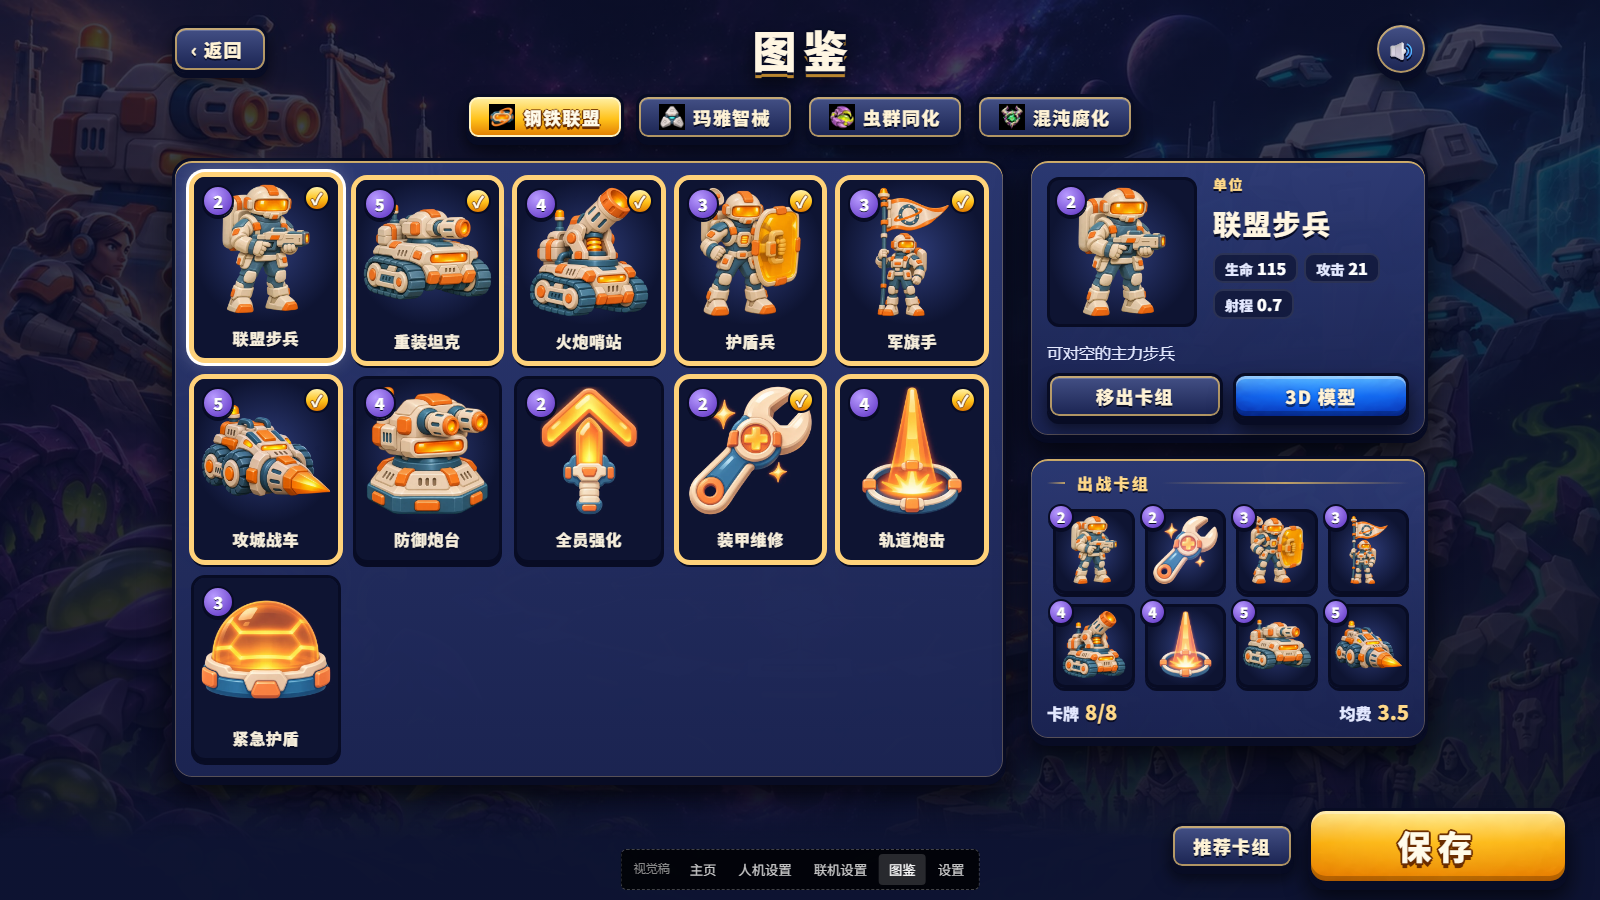
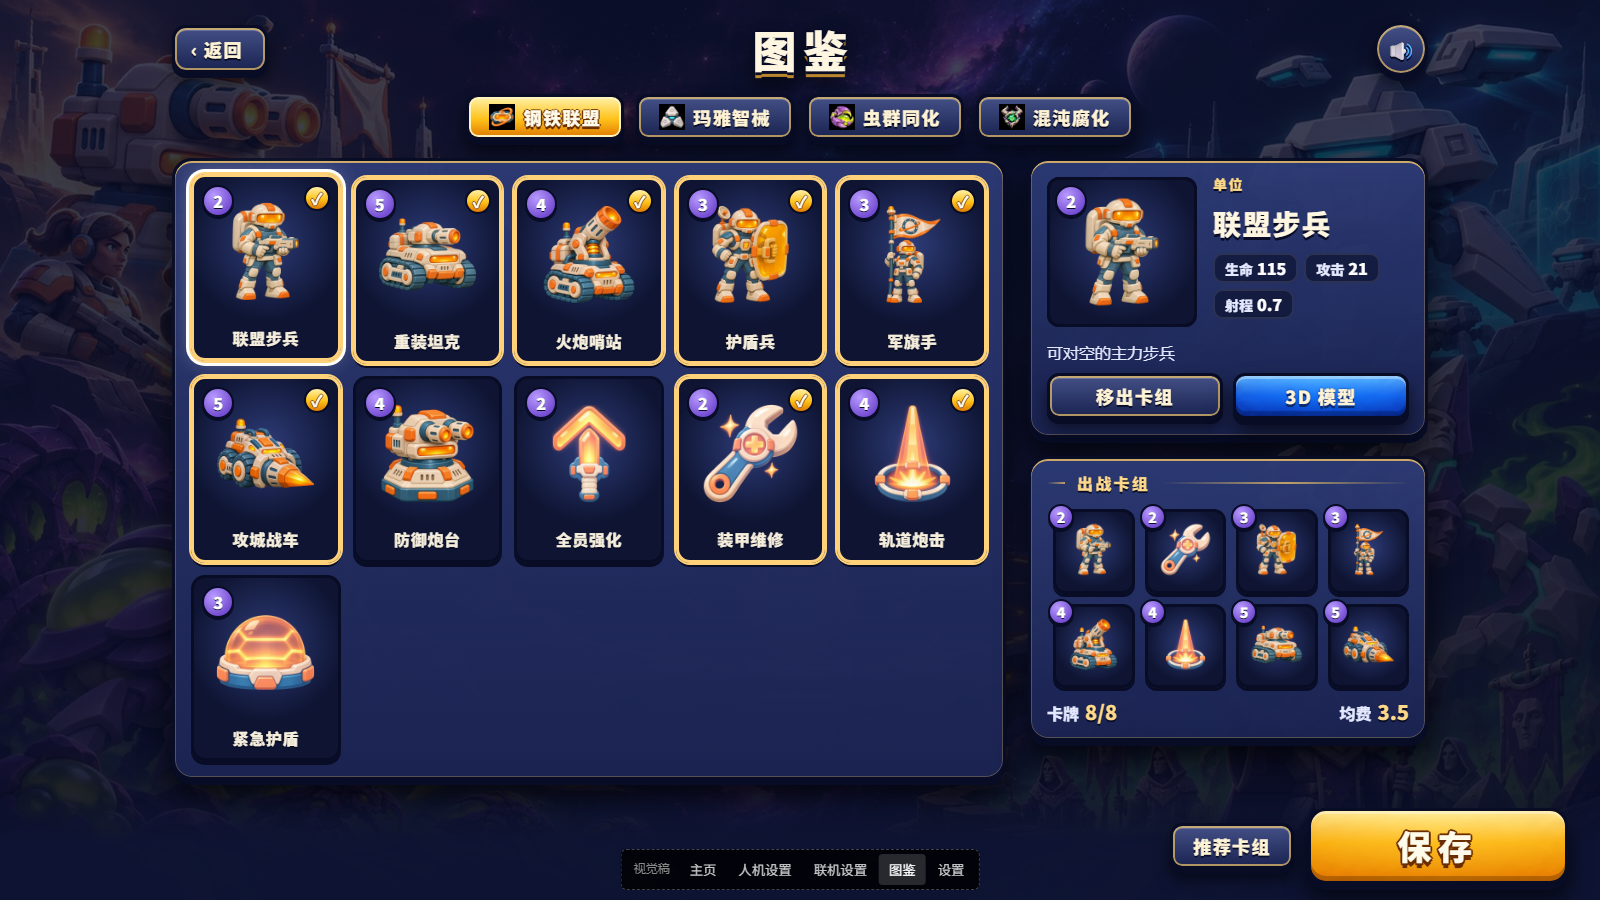
视觉稿 v0.7:定 A 星夜蓝金;图鉴卡图四周留白(不再撑满),卡图底光移到容器上修复法术图黑底方块

diff --git a/mockup/index.html b/mockup/index.html
@@ -272,7 +272,7 @@ body {
   border: 3px solid var(--plum-line); border-radius: 14px; background: linear-gradient(180deg, var(--s1), var(--s3)); box-shadow: 0 4px 0 var(--plum-line);
   transition: transform .12s var(--ease), border-color .12s; }
 .card:hover { transform: translateY(-3px); border-color: var(--rim); }
-.card img { display: block; width: 100%; aspect-ratio: 1; object-fit: contain; border-radius: 11px 11px 0 0; background: radial-gradient(var(--s1), var(--s3) 72%); }
+.card img { display: block; width: 100%; aspect-ratio: 1; object-fit: contain; padding: 12% 12% 8%; box-sizing: border-box; border-radius: 11px 11px 0 0; }
 .card.spell img, .detail .art.spell { mix-blend-mode: screen; }   /* 法术插图是黑底发光图,滤色去黑 */
 .card .cname { padding: 8px 6px 0; font: 900 var(--t-body)/1.2 var(--f-display); letter-spacing: .04em; text-shadow: 0 2px 0 var(--plum-line); }
 .card.in { border-color: #ffd27a; box-shadow: 0 0 0 2px #ffd27a, 0 4px 0 var(--plum-line); }
@@ -287,7 +287,7 @@ body {
 .side { display: grid; gap: 18px; position: sticky; top: 12px; }
 .detail { padding: 16px; display: grid; grid-template-columns: 150px 1fr; gap: 6px 16px; align-items: start; }
 .detail .art-wrap { position: relative; grid-row: span 3; }
-.detail .art { display: block; width: 150px; height: 150px; object-fit: contain; border-radius: 12px; background: radial-gradient(var(--s1), var(--s3) 72%); border: 3px solid var(--plum-line); }
+.detail .art { display: block; width: 150px; height: 150px; object-fit: contain; padding: 12px; box-sizing: border-box; border-radius: 12px; border: 3px solid var(--plum-line); }
 .detail h3 { margin: 2px 0 0; font: 900 var(--t-h2)/1.15 var(--f-display); letter-spacing: .06em; color: var(--ink-title); text-shadow: 0 3px 0 var(--plum-line); }
 .detail .type { color: var(--label); font: 900 var(--t-small)/1 var(--f-display); letter-spacing: .1em; text-shadow: 0 2px 0 var(--plum-line); }
 .chips { display: flex; flex-wrap: wrap; gap: 6px; }
@@ -299,7 +299,7 @@ body {
 .roster { padding: 16px; }
 .slots { display: grid; grid-template-columns: repeat(4, minmax(0, 1fr)); gap: 10px; padding: 6px 0 0 6px; }
 .dslot { position: relative; display: block; width: 100%; min-width: 0; aspect-ratio: 1; border-radius: 12px; border: 3px solid var(--plum-line); background: radial-gradient(var(--s1), var(--s3) 72%); box-shadow: 0 3px 0 var(--plum-line); cursor: pointer; padding: 0; }
-.dslot img { width: 100%; height: 100%; object-fit: contain; border-radius: 9px; }
+.dslot img { width: 100%; height: 100%; object-fit: contain; padding: 12%; box-sizing: border-box; border-radius: 9px; }
 .dslot.spell img { mix-blend-mode: screen; }
 .dslot .cost { top: -8px; left: -8px; width: 26px; height: 26px; font-size: var(--t-small); }
 .dslot.empty { border-style: dashed; border-color: color-mix(in srgb, var(--rim) 40%, transparent); background: color-mix(in srgb, var(--s3) 50%, transparent); box-shadow: none; cursor: default; }
@@ -347,6 +347,10 @@ body.theme-c {   /* C 锻铜:炭灰金属 + 青铜描边,更接近传统 RTS 的
 /* 卡片 / 选项:比面板暗一档的“凹槽”,选中才亮金 */
 .choice, .card { background: var(--s3); }
 .choice .name, .seg button, .diff .name { background: linear-gradient(180deg, var(--s1), var(--s2)); }
+/* 卡图底光放在容器上(不放在 img 上),法术图的滤色去黑才能透到底光 */
+.card { background: radial-gradient(circle at 50% 36%, var(--s1), var(--s3) 58%) !important; }
+.detail .art-wrap { border-radius: 12px; background: radial-gradient(circle at 50% 45%, var(--s1), var(--s3) 70%); }
+.dslot { background: radial-gradient(circle at 50% 45%, var(--s1), var(--s3) 70%); }
 </style>
 </head>
 <body>
